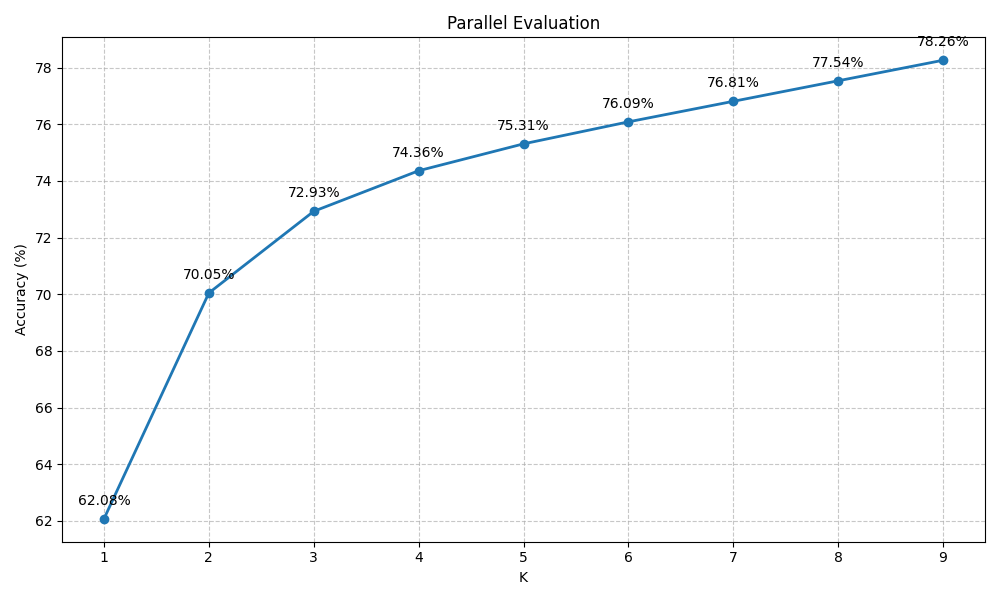
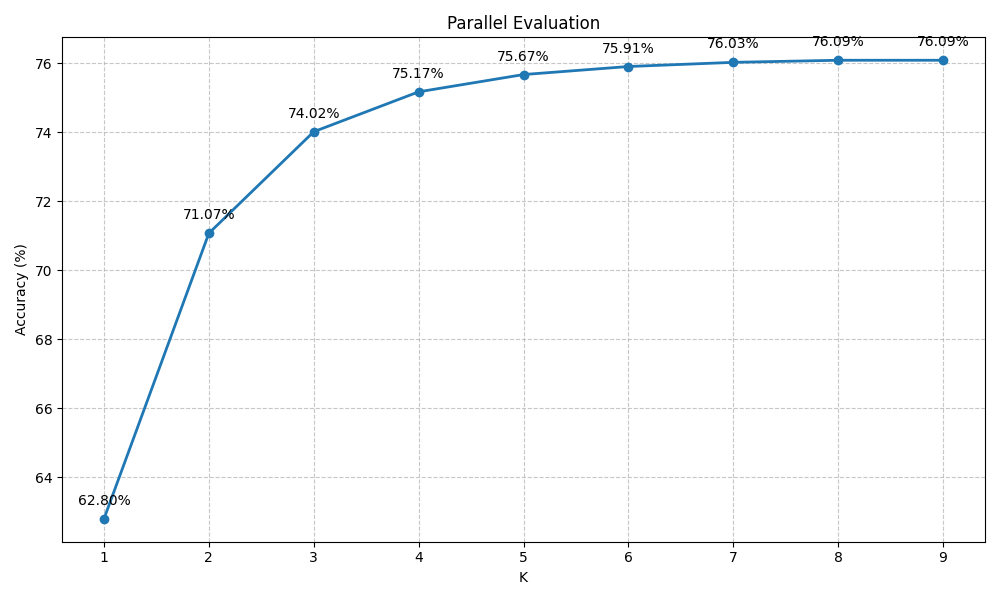
modified eval

diff --git a/eval/parallel_eval.py b/eval/parallel_eval.py
@@ -280,6 +280,13 @@ def evaluate_model(args):
     total_attempts = 0  # 所有尝试的次数
     problems_with_correct = 0  # 至少有一次正确的问题数
     problem_to_scores = defaultdict(list)  # 每个问题的正确/错误列表
+    
+    # 初始化reasoning答案的统计数据
+    reasoning_problem_stats = {}  # 每个问题的reasoning答案统计信息
+    reasoning_total_correct = 0   # reasoning答案所有正确的次数
+    reasoning_total_attempts = 0  # reasoning答案所有尝试的次数
+    reasoning_problems_with_correct = 0  # reasoning答案至少有一次正确的问题数
+    reasoning_problem_to_scores = defaultdict(list)  # 每个问题的reasoning答案正确/错误列表
 
     # 遍历结果文件
     for filename in os.listdir(model_dir):
@@ -320,6 +327,35 @@ def evaluate_model(args):
                 logging.warning(f"在文件 {file_path} 中未找到运行结果")
                 continue
                 
+            # 处理reasoning字段中的答案（每个文件只处理一次）
+            reasoning_data = data.get("reasoning")  # 从data顶层获取reasoning
+            reasoning_answer = None
+            reasoning_is_correct = False
+            
+            if reasoning_data and isinstance(reasoning_data, dict):
+                reasoning_answer = reasoning_data.get("answer")
+                if reasoning_answer is not None:
+                    reasoning_is_correct = compare_answers(reasoning_answer, ground_truth, args.dataset_name)
+            
+            # 记录reasoning答案的详细结果
+            if reasoning_answer is not None and not reasoning_is_correct:
+                logging.info(f"问题 {problem_id}（索引 {problem_idx}），重复 {repeat_id} [Reasoning]: 模型='{reasoning_answer}'，正确答案='{ground_truth}'，判断={reasoning_is_correct}")
+            
+            # 更新reasoning答案的统计信息
+            if reasoning_answer is not None:
+                if problem_id not in reasoning_problem_stats:
+                    reasoning_problem_stats[problem_id] = {"attempts": 0, "correct": 0}
+                    
+                reasoning_problem_stats[problem_id]["attempts"] += 1
+                if reasoning_is_correct:
+                    reasoning_problem_stats[problem_id]["correct"] += 1
+                    reasoning_total_correct += 1
+                    
+                reasoning_total_attempts += 1
+                
+                # 为reasoning答案的pass@k计算添加结果
+                reasoning_problem_to_scores[problem_id].append(reasoning_is_correct)
+            
             # 处理每个运行结果
             for run_id, result in enumerate(method_results):
                 model_answer = result.get("answer")
@@ -356,6 +392,11 @@ def evaluate_model(args):
     for problem_id, stats in problem_stats.items():
         if stats["correct"] > 0:
             problems_with_correct += 1
+            
+    # 计算reasoning答案每个问题是否至少有一次正确
+    for problem_id, stats in reasoning_problem_stats.items():
+        if stats["correct"] > 0:
+            reasoning_problems_with_correct += 1
 
     # 计算准确率
     total_problems = len(problem_stats)
@@ -368,6 +409,18 @@ def evaluate_model(args):
         accuracy_method2 = (total_correct / total_attempts) * 100
     else:
         accuracy_method2 = 0
+        
+    # 计算reasoning答案的准确率
+    reasoning_total_problems = len(reasoning_problem_stats)
+    if reasoning_total_problems > 0:
+        reasoning_accuracy_method1 = (reasoning_problems_with_correct / reasoning_total_problems) * 100
+    else:
+        reasoning_accuracy_method1 = 0
+        
+    if reasoning_total_attempts > 0:
+        reasoning_accuracy_method2 = (reasoning_total_correct / reasoning_total_attempts) * 100
+    else:
+        reasoning_accuracy_method2 = 0
 
     # 打印结果
     logging.info("=" * 50)
@@ -375,28 +428,57 @@ def evaluate_model(args):
     logging.info(f"数据集: {args.dataset_name}")
     logging.info(f"模型: {args.model_name}")
     logging.info(f"结果目录: {model_dir}")
+    logging.info("")
+    logging.info("原始答案统计:")
     logging.info(f"总问题数: {total_problems}")
     logging.info(f"总尝试次数: {total_attempts}")
     logging.info(f"总正确次数: {total_correct}")
     logging.info(f"至少有一次正确的问题数: {problems_with_correct}")
     logging.info(f"(至少一次正确的问题/总问题数): {accuracy_method1:.2f}%")
     logging.info(f"(总正确次数/总尝试次数): {accuracy_method2:.2f}%")
+    logging.info("")
+    logging.info("Reasoning答案统计:")
+    logging.info(f"总问题数: {reasoning_total_problems}")
+    logging.info(f"总尝试次数: {reasoning_total_attempts}")
+    logging.info(f"总正确次数: {reasoning_total_correct}")
+    logging.info(f"至少有一次正确的问题数: {reasoning_problems_with_correct}")
+    logging.info(f"(至少一次正确的问题/总问题数): {reasoning_accuracy_method1:.2f}%")
+    logging.info(f"(总正确次数/总尝试次数): {reasoning_accuracy_method2:.2f}%")
     logging.info("=" * 50)
     
     # 打印每个问题的详细统计信息
-    logging.info("每个问题的详细统计信息:")
+    logging.info("每个问题的原始答案详细统计信息:")
     for problem_id in sorted(problem_stats.keys()):
         stats = problem_stats[problem_id]
         logging.info(f"问题 {problem_id}: 尝试={stats['attempts']}, 正确={stats['correct']}, 正确率={stats['correct']/stats['attempts']*100:.2f}%")
     
+    # 打印reasoning答案的详细统计信息
+    if reasoning_problem_stats:
+        logging.info("")
+        logging.info("每个问题的Reasoning答案详细统计信息:")
+        for problem_id in sorted(reasoning_problem_stats.keys()):
+            stats = reasoning_problem_stats[problem_id]
+            logging.info(f"问题 {problem_id}: 尝试={stats['attempts']}, 正确={stats['correct']}, 正确率={stats['correct']/stats['attempts']*100:.2f}%")
+    
     # 计算pass@k
     pass_k_results = calculate_pass_at_k(problem_to_scores, max_k=9)
     
+    # 计算reasoning答案的pass@k
+    reasoning_pass_k_results = {}
+    if reasoning_problem_to_scores:
+        reasoning_pass_k_results = calculate_pass_at_k(reasoning_problem_to_scores, max_k=9)
+    
     # 打印pass@k结果
     logging.info("=" * 50)
-    logging.info("Pass@k 结果:")
+    logging.info("原始答案 Pass@k 结果:")
     for k, value in pass_k_results.items():
         logging.info(f"Pass@{k}: {value:.2f}%")
+    
+    if reasoning_pass_k_results:
+        logging.info("")
+        logging.info("Reasoning答案 Pass@k 结果:")
+        for k, value in reasoning_pass_k_results.items():
+            logging.info(f"Pass@{k}: {value:.2f}%")
     logging.info("=" * 50)
     
     # 绘制pass@k折线图
@@ -414,7 +496,15 @@ def evaluate_model(args):
         "accuracy_method1": accuracy_method1,
         "accuracy_method2": accuracy_method2,
         "problem_stats": problem_stats,
-        "pass_at_k": pass_k_results
+        "pass_at_k": pass_k_results,
+        "reasoning_total_problems": reasoning_total_problems,
+        "reasoning_total_attempts": reasoning_total_attempts,
+        "reasoning_total_correct": reasoning_total_correct,
+        "reasoning_problems_with_correct": reasoning_problems_with_correct,
+        "reasoning_accuracy_method1": reasoning_accuracy_method1,
+        "reasoning_accuracy_method2": reasoning_accuracy_method2,
+        "reasoning_problem_stats": reasoning_problem_stats,
+        "reasoning_pass_at_k": reasoning_pass_k_results
     }
 
 def main():
